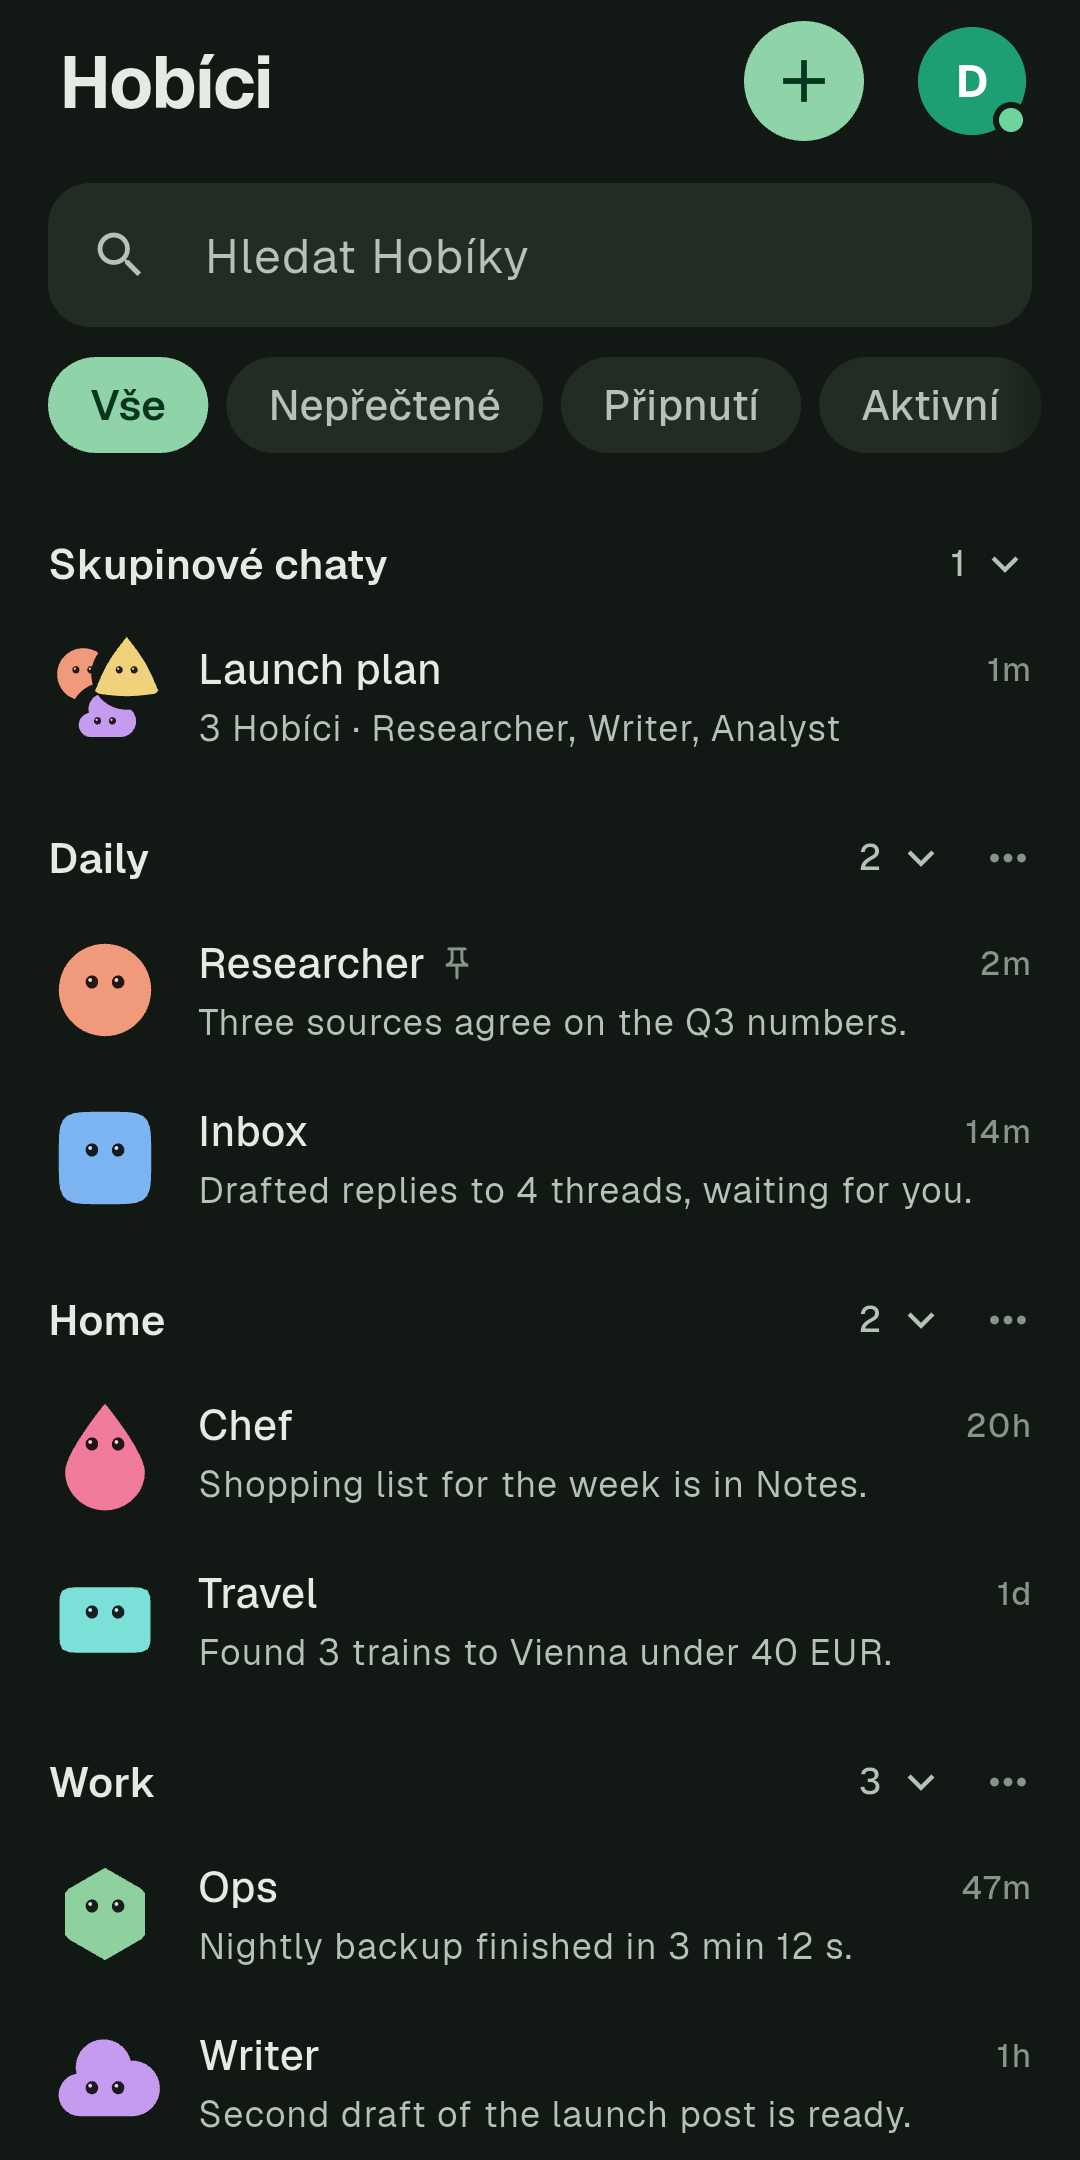
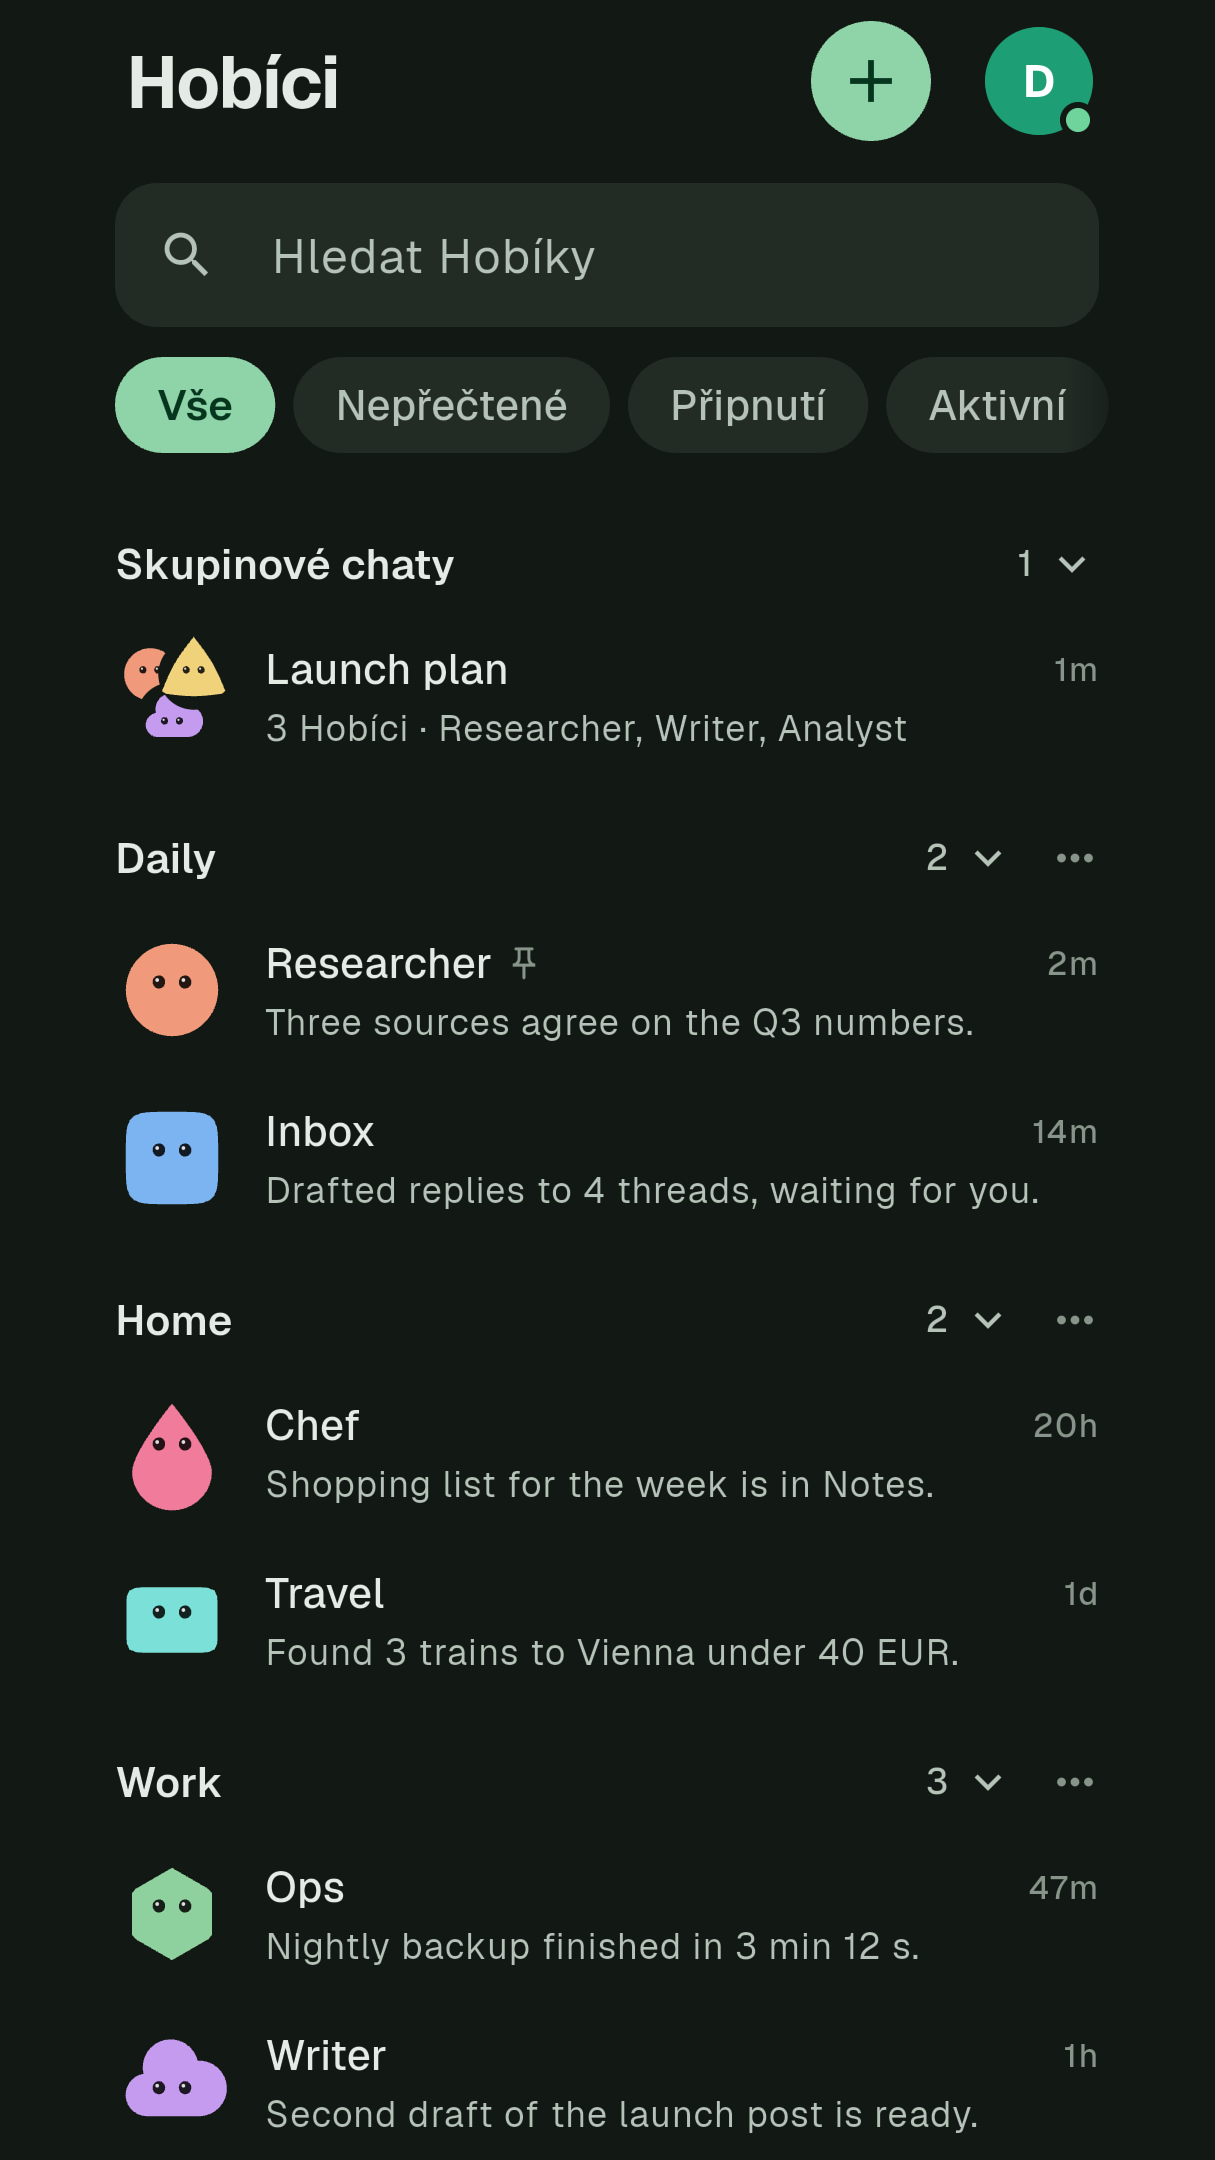
Widen Play screenshots to 9:16
Play Console now asks for 16:9 or 9:16 phone screenshots.

diff --git a/docs/google-play.md b/docs/google-play.md
@@ -84,8 +84,9 @@ Assets are in `docs/play/`: `icon-512.png`, `feature-graphic.png`
 English listing and `cs/phone-*.png` for the Czech one. They are captures of
 the demo (*Try the demo*) on an Android phone in dark mode, with the app
 language set in Settings. To redo them: `adb exec-out screencap -p`, then cut
-the status and navigation bars so the image is 1080x2160 (Play allows at most
-2:1). On Samsung phones, also paint over the Edge panel handle on the right.
+the status and navigation bars to 1080x2160, then widen to 1215x2160 by
+repeating the edge pixels (Play wants 9:16). On Samsung phones, also paint
+over the Edge panel handle on the right.
 The demo Hobs and chats are in English in both sets.
 
 Store settings: app, free, category Productivity. Contact email: the
